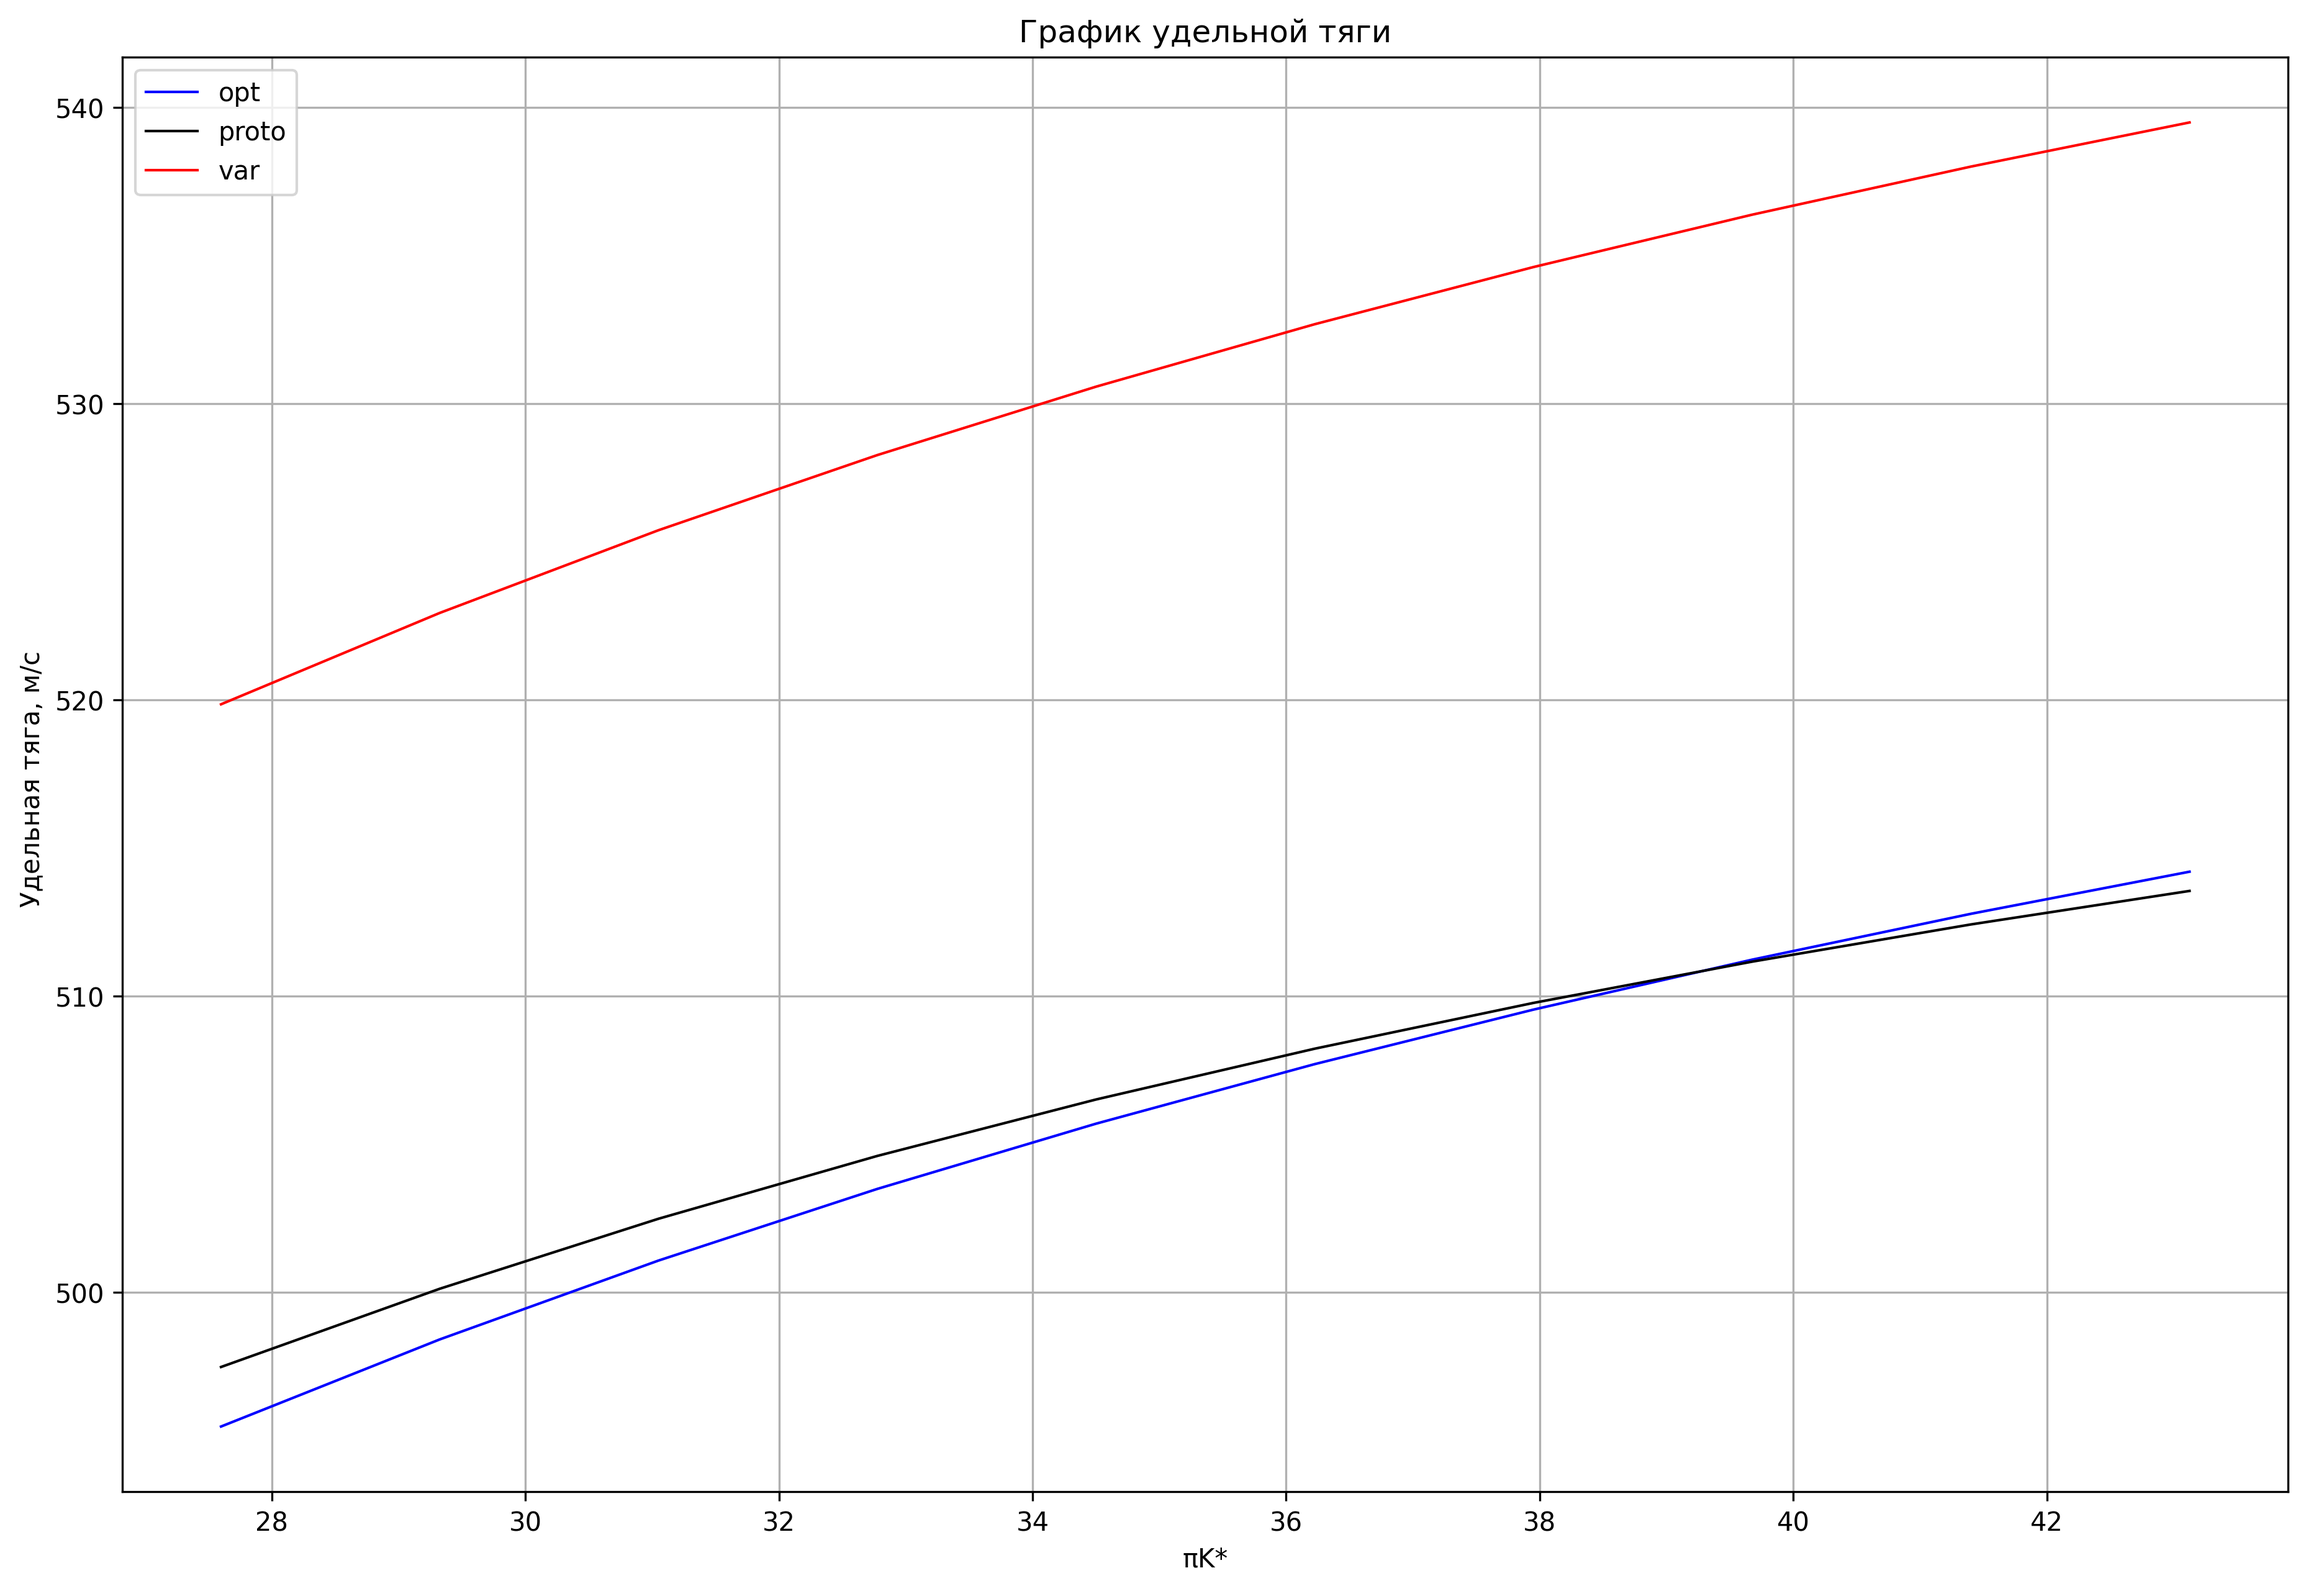
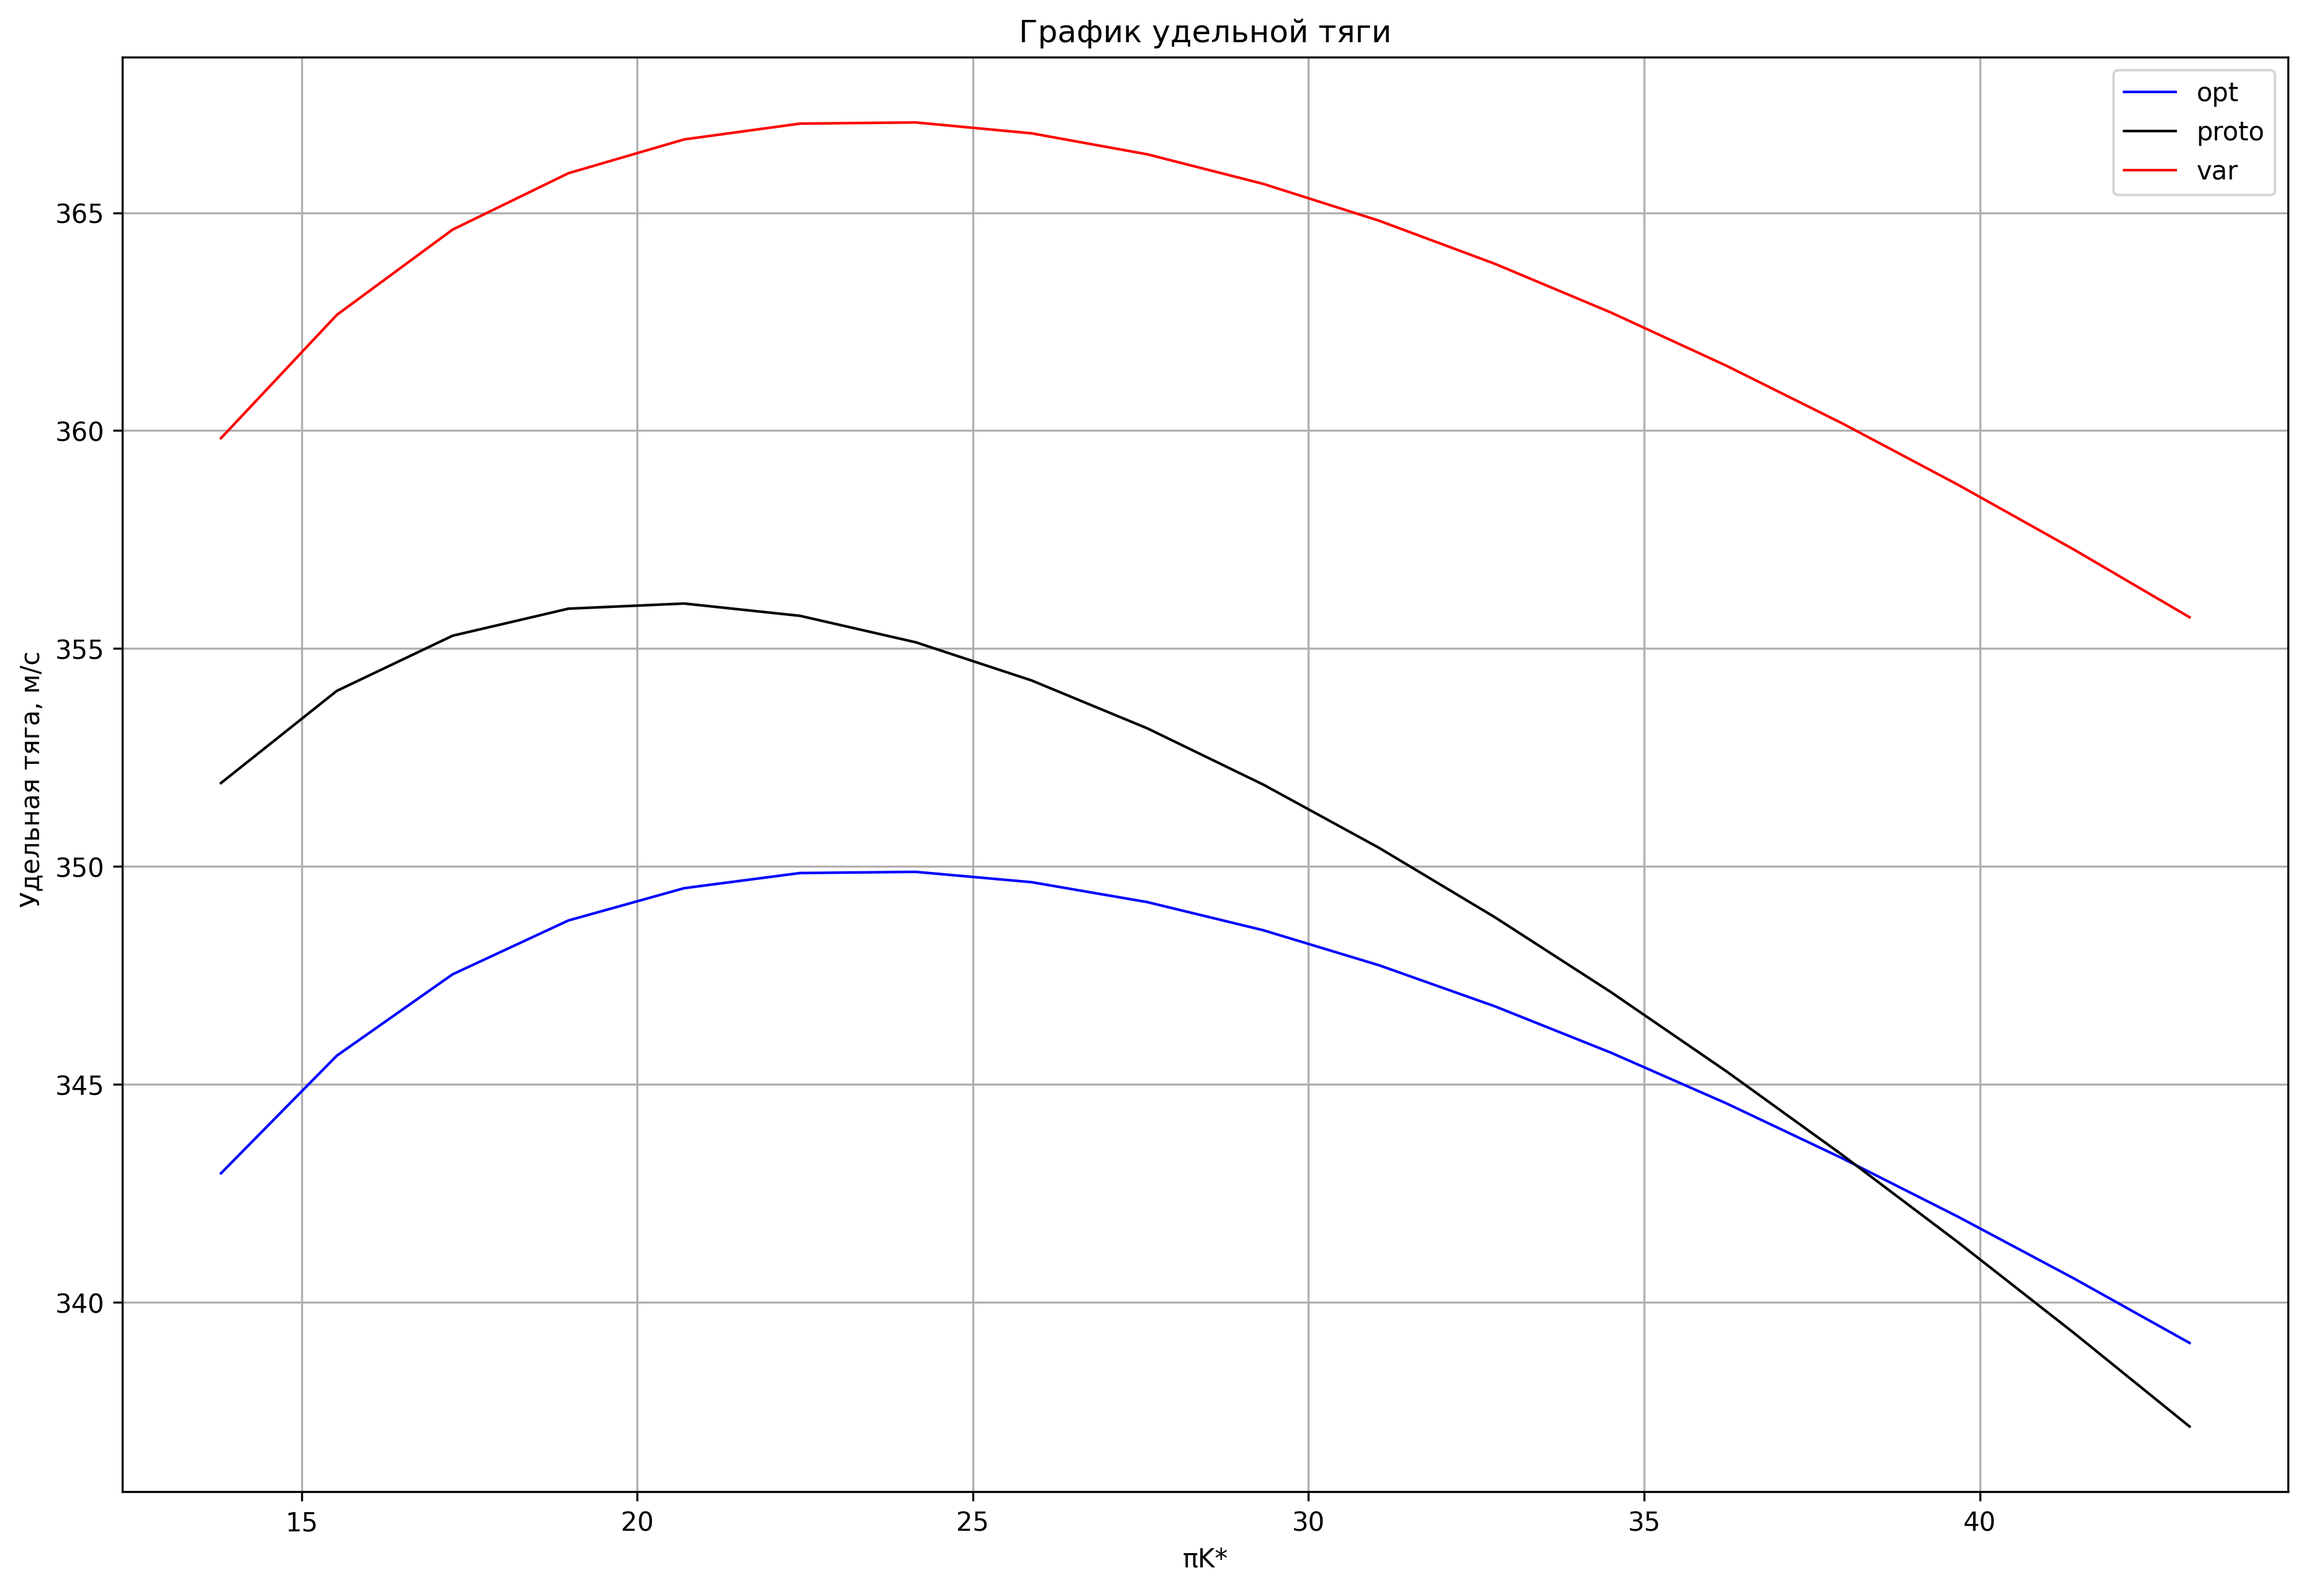
probobly-right

diff --git a/code/kursach.py b/code/kursach.py
@@ -2,52 +2,36 @@ import numpy as np
 import math
 
 
-def get_cp_air_poly(T, R=287.0):
-    poly = np.array([-3.2689e-7, 7.4230e-4, -3.1280e-1, 1042.39])
+def get_cp_air(T1, T2):
+    poly =[-3.2689e-7, 7.4230e-4, -3.1280e-1, 1042.39]
 
     # Вычисление полинома (коэффициенты идут от старшей степени к младшей)
-    cp = np.polyval(poly, T)
-
-    cv = cp - R
-    k = cp / cv
-
-    return {"cp": cp, "cv": cv, "k": k}
+    return get_cp(T1,T2,poly)
 
 
-def get_cp_air(T1, T2):
+def get_cp(T1, T2, poly):
     """
-    Вычисление средней теплоемкости воздуха в интервале температур [T1, T2]
-    через интегрирование аппроксимационного полинома
-
-    Parameters:
-    T1 : float
-        Нижний предел температуры [K]
-    T2 : float
-        Верхний предел температуры [K]
-
-    Returns:
-    float : средняя изобарная теплоемкость в интервале [T1, T2] [Дж/(кг·К)]
+    Вычисляет среднюю теплоемкость воздуха в заданном температурном диапазоне.
+    
+    Параметры:
+    T1 - начальная температура [K]
+    T2 - конечная температура [K]
+    
+    Возвращает:
+    cp - средняя теплоемкость воздуха [Дж/(кг·К)]
     """
-    # Коэффициенты интерполяционного полинома
-    poly = np.array([-3.2689e-7, 7.4230e-4, -3.1280e-1, 1042.39])
+    R=287.0
     n = len(poly)
-
-    cp_integral = 0.0
-
+    cp = 0
+    
     for i in range(n):
-        # Степень полинома после интегрирования
-        power = n - i  # оригинальная степень
-        integrated_power = power + 1  # степень после интегрирования
-
-        # Вычисление интеграла для каждого слагаемого
-        term_T2 = poly[i] * T2**integrated_power / integrated_power
-        term_T1 = poly[i] * T1**integrated_power / integrated_power
-        cp_integral += term_T2 - term_T1
-
-    # Средняя теплоемкость
-    cp_avg = cp_integral / (T2 - T1)
-
-    return cp_avg
+        power = n - i - 1
+        cp += poly[i] * (T2**(power + 1) - T1**(power + 1)) / (power + 1)
+    
+    cp = cp / (T2 - T1)
+    cv = cp - R
+    k = cp/cv
+    return {"cp": cp, "cv": cv, "k": k}
 
 
 def calculate_compressor_temperature(TH, pik, effK, R=287.0, max_iter=1000, tol=1e-16):
@@ -64,7 +48,7 @@ def calculate_compressor_temperature(TH, pik, effK, R=287.0, max_iter=1000, tol=
 
     while abs(TK - TK_old) > tol and iter_count < max_iter:
         try:
-            cpAir = get_cp_air_poly(TK)
+            cpAir = get_cp_air(TH,TK)
 
             TK_old = TK
             TK = TH * (1 + (pik ** ((cpAir['k'] - 1) / cpAir['k']) - 1) / effK)
@@ -123,23 +107,11 @@ def calculate_combustion_properties(gC, gH, TK, TG, effG, max_iter=1000, tol=1e-
     R_O2 = 8314.2 / 32  # для кислорода
 
     # 2. Вычисляем низшую теплоту сгорания и теоретическое количество воздуха
-    Hu = (33800 * gC + 102500 * gH) * 1000  # Дж/кг
+    Hu = (33800 * gC + 102500 * gH) * 1000 # Дж/кг
     L0 = (8 / 3 * gC + 8 * gH) / 0.23  # кг/кг
 
     # 3. Функции для расчета теплоемкостей компонентов
     # (аналоги get_cp_air для каждого компонента)
-    def get_cp(T1, T2, poly):
-        """Теплоемкость CO2 в интервале [T1, T2]"""
-        # Коэффициенты для CO2 (замените на реальные значения)
-        n = len(poly)
-        integral = 0.0
-        for i, coef in enumerate(poly):
-            power = n - i
-            integrated_power = power + 1
-            integral += (
-                coef * (T2**integrated_power - T1**integrated_power) / integrated_power
-            )
-        return integral / (T2 - T1) / 1000
 
     # 4. Итерационный процесс
     k_old = 1.4  # начальное предположение
@@ -147,20 +119,19 @@ def calculate_combustion_properties(gC, gH, TK, TG, effG, max_iter=1000, tol=1e-
     alpha = 1.0  # начальный коэффициент избытка воздуха
     iter_count = 0
     converged = False
-
-    history = []
-
+    cp_CO2 = get_cp(TK, TG, [-5.2735e-11, 3.9194e-7, -1.1213e-3, 1.5466, 471.75])['cp']
+    cp_H2O = get_cp(TK, TG, [8.2542e-11, -5.3927e-7, 1.0936e-3, -1.9361e-1,1842.53])['cp']
+    cp_N2 = get_cp(TK, TG, [-3.5780e-14, 2.9022e-10, -8.8233e-7, 1.1757e-3,-4.7731e-1,1095.68])['cp']
+    cp_O2 = get_cp(TK, TG, [-4.7303e-14, 3.3563e-10, -8.4931e-7, 8.5606e-4, -1.0201e-1, 897])['cp']
+    
     while abs(k - k_old) > tol and iter_count < max_iter:
         # Вычисляем массовые доли компонентов
-        g_CO2 = (11 / 3 * gC) / (1 + alpha * L0)
+        g_CO2 = (11 * gC) /(3 *(1 + alpha * L0))
         g_H2O = (9 * gH) / (1 + alpha * L0)
         g_N2 = (0.77 * L0 * alpha) / (1 + L0 * alpha)
         g_O2 = (0.23 * (alpha - 1) * L0) / (1 + L0 * alpha)
         # Вычисляем средние теплоемкости в интервале [TK, TG]
-        cp_CO2 = get_cp(TK, TG, np.array([-4.5e-7, 8.2e-4, -0.35, 850.0]))
-        cp_H2O = get_cp(TK, TG, np.array([-3.8e-7, 7.1e-4, -0.32, 1860.0]))
-        cp_N2 = get_cp(TK, TG, np.array([-2.8e-7, 6.5e-4, -0.28, 1040.0]))
-        cp_O2 = get_cp(TK, TG, np.array([-3.1e-7, 6.8e-4, -0.29, 920.0]))
+        history = []
         # cp_air = get_cp(TK, TG, np.array([-3.2689e-7, 7.4230e-4, -3.1280e-1, 1042.39]))
 
         # Вычисляем теплоемкость и газовую постоянную смеси
@@ -236,7 +207,7 @@ def calculate_fan_temperature(TB, LB, effB, R=287.0):
     iter_count = 0
 
     while abs(TB2 - TB2old) > 1e-16 and iter_count < 100:
-        cpAir = get_cp_air(TB, TB2)
+        cpAir = get_cp_air(TB, TB2)['cp']
         cvAir = cpAir - R
         kAir = cpAir / cvAir
 
@@ -260,7 +231,7 @@ def get_gas_parameters(T, T_ref, Hu, L0, gC, effG, alpha):
 def calc_mix_temp(T1, T2, g1, g2, Hu, L0, gC, effG, alpha):
     # Истинные теплоемкости ДО цикла
     cpGasG = get_gas_parameters(T1, T1, Hu, L0, gC, effG, alpha)[0]
-    cpAirK = get_cp_air(T2, T2)
+    cpAirK = get_cp_air(T2, T2)['cp']
 
     tCorr = T1
     tCorrOld = 0
@@ -270,7 +241,7 @@ def calc_mix_temp(T1, T2, g1, g2, Hu, L0, gC, effG, alpha):
         cpGas, kGas, RGas, alpha = get_gas_parameters(
             tCorr, tCorr, Hu, L0, gC, effG, alpha
         )
-        cpAir = get_cp_air(tCorr, tCorr)
+        cpAir = get_cp_air(tCorr, tCorr)['cp']
 
         tCorrOld = tCorr
 
@@ -294,8 +265,8 @@ def calculate_mixing_temperature(
     """
     # Истинные теплоемкости ДО цикла (не меняются внутри цикла)
     cpGasG, kGas, RGas, alpha = get_gas_parameters(T1, T1, Hu, L0, gC, effG, alpha)
-    cpAirK = get_cp_air(T2, T2)  # для охлаждающего воздуха при T2
-    cpAir2 = get_cp_air(T3, T3)  # для воздуха второго контура при T3
+    cpAirK = get_cp_air(T2, T2)['cp'] # для охлаждающего воздуха при T2
+    cpAir2 = get_cp_air(T3, T3)['cp'] # для воздуха второго контура при T3
 
     tMix = T1  # начальное приближение
     tMixOld = 0.0
@@ -306,7 +277,7 @@ def calculate_mixing_temperature(
         cpGas, kGas, RGas, alpha = get_gas_parameters(
             tMix, tMix, Hu, L0, gC, effG, alpha
         )
-        cpAir = get_cp_air(tMix, tMix)  # свойства воздуха при tMix
+        cpAir = get_cp_air(tMix, tMix)['cp']  # свойства воздуха при tMix
 
         tMixOld = tMix
 
@@ -332,7 +303,7 @@ def calculate_mix_properties(T1, T2, g1, g2, g3, Hu, L0, gC, effG, alpha, R=287.
     """
     # Получаем средние теплоемкости в интервале [T1, T2]
     cpGas, kGas, RGas, alpha = get_gas_parameters(T1, T2, Hu, L0, gC, effG, alpha)
-    cpAir = get_cp_air(T1, T2)
+    cpAir = get_cp_air(T1, T2)['cp']
 
     # Свойства смеси по правилу смесей
     cpMix = (cpGas * g1 + cpAir * (g2 + g3)) / (g1 + g2 + g3)

diff --git a/code/lab1.py b/code/lab1.py
@@ -79,6 +79,7 @@ def calc_proto(coef, T_gas_full_i, m_i, Pik_full_i):
             )
     T_k = compressor['TK']
     k_air = compressor['kAir']
+    cp_air = compressor['cpAir']
     combustion_props = kurs.calculate_combustion_properties(
                 0.86, 0.14, T_k, T_gas_full_i, coef["effk_gas"]
             )
@@ -127,7 +128,7 @@ def calc_proto(coef, T_gas_full_i, m_i, Pik_full_i):
                         coef["sigma_1"],
                         coef["phi_c1"],
                     ),
-                    kurs.get_cp_air(288, T_k) / 1000,
+                    cp_air,
                     288,
                     k_air,
                     q_T,
@@ -136,17 +137,6 @@ def calc_proto(coef, T_gas_full_i, m_i, Pik_full_i):
                         Pik_full_i, coef["sigma_intake"], k_air, coef["effk_comp_full"]
                     ),
                 )
-    temp = kurs.expansion_efficiency(
-                        Pik_full_i,
-                        coef["sigma_intake"],
-                        coef["sigma_cc"],
-                        kurs.calculate_combustion_properties(
-                0.86, 0.14, 288, T_gas_full_i, coef["effk_gas"]
-            )['k'],
-                        coef["effk_hpt_full"] * coef["effk_lpt_full"],
-                        coef["sigma_1"],
-                        coef["phi_c1"],
-                    )
     p_spec = kurs.calculate_P_spec(
                     q_T,
                     v_take,

diff --git a/code/main.py b/code/main.py
@@ -44,11 +44,11 @@ m = [engine["m"] * 0.8,
          engine["m"],
          engine["m"] * 1.2]
     
-step = 0.8
+step = 0.4
 t_temp = []
 m_temp = []
 
-for i in range(10):
+for i in range(18):
         Pik_full.append(step * engine["Pik_full"])
         step += 0.05
 for T_gas_full_i in T_gas_full:
@@ -79,12 +79,13 @@ opt_pi_map = {}
 for pi_k_full_i in Pik_full:
     opt_pi_map[pi_k_full_i] = lab.calc_proto(coef,T_gas_opt, engine["m"], pi_k_full_i)
 max_eff = 0.0
+opt_pi = 0.0
 for pi in opt_pi_map:
     if opt_pi_map[pi].eff_comp > max_eff:
         max_eff = opt_pi_map[pi].eff_comp
         opt_pi = pi
 
-
+print(opt_pi)
 fuel_map = {}
 min_fuel = 99999999
 opt_m = 0.0
